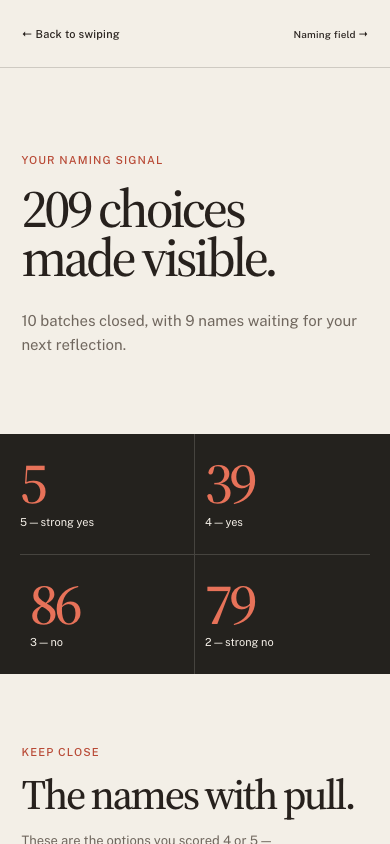
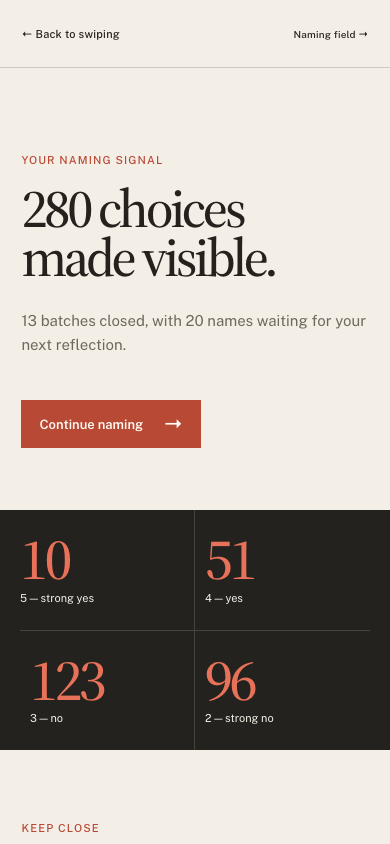
feat(naming): add clear continue action to results
Keep the decision-review flow moving by placing an explicit return-to-swiping action in the results hero.

diff --git a/naming/decide/results/results.css b/naming/decide/results/results.css
@@ -1,1 +1,1 @@
-.field-link{white-space:nowrap}.results-intro,.scoreboard,.shortlist,.territory-section,.rejected,.model-analysis,.empty{padding-inline:clamp(20px,5.5vw,80px)}.results-intro{padding-block:86px 62px}.results-intro h1,.empty h1{font-family:"Source Serif 4",serif;font-size:clamp(54px,7vw,104px);font-weight:500;letter-spacing:-.06em;line-height:.9;margin:18px 0 28px}.results-intro>p:last-child{color:var(--muted);font-size:15px;line-height:1.6;max-width:51ch}.scoreboard{background:var(--dark);display:grid;grid-template-columns:repeat(4,1fr);padding-block:0}.scoreboard article{border-right:1px solid rgba(245,240,232,.17);color:var(--light);display:grid;gap:9px;padding:36px 24px}.scoreboard article:first-child{padding-left:0}.scoreboard article:last-child{border:0}.scoreboard strong{color:#e77259;font-family:"Source Serif 4",serif;font-size:58px;font-weight:500;letter-spacing:-.06em;line-height:.8}.scoreboard span{font-size:11px}.shortlist,.territory-section,.rejected,.model-analysis{padding-block:108px}.shortlist{display:grid;gap:50px;grid-template-columns:minmax(250px,.58fr) 1fr}.shortlist h2,.territory-section h2,.rejected h2,.model-analysis h2{font-family:"Source Serif 4",serif;font-size:clamp(42px,5vw,72px);font-weight:500;letter-spacing:-.055em;line-height:.93;margin:17px 0}.shortlist>div>p:last-child{color:var(--muted);font-size:13px;line-height:1.6;max-width:32ch}.name-grid{display:grid;gap:1px;grid-template-columns:repeat(2,1fr)}.name-card{background:var(--panel);min-height:132px;padding:22px}.name-card strong{display:block;font-family:"Source Serif 4",serif;font-size:30px;font-weight:500;letter-spacing:-.035em;line-height:1;margin-top:19px}.name-card p{color:var(--muted);font-size:10px;line-height:1.45;margin:7px 0 0}.name-card span{color:var(--accent);font-size:10px;text-transform:uppercase}.territory-section{background:#e9e1d6}.territory-list{border-top:1px solid var(--line);max-width:1000px}.territory-row{align-items:center;border-bottom:1px solid var(--line);display:grid;gap:20px;grid-template-columns:minmax(160px,1fr) 80px 1.5fr;padding:20px 0}.territory-row strong{font-family:"Source Serif 4",serif;font-size:27px;font-weight:500}.territory-row span{color:var(--muted);font-size:11px}.territory-row i{background:rgba(39,33,29,.15);display:block;height:3px}.territory-row b{background:var(--accent);display:block;height:100%}.rejected{border-top:1px solid var(--line)}details{margin-top:40px}summary{cursor:pointer;font-size:12px;list-style:none}summary::-webkit-details-marker{display:none}summary::after{content:" +";color:var(--accent);font-size:20px}details[open] summary::after{content:" −"}.rejected .name-grid{margin-top:24px}.rejected .name-card{background:transparent;border:1px solid var(--line)}.model-analysis{background:var(--dark);color:var(--light)}.model-analysis h2{color:var(--light)}.model-analysis>p:not(.label){font-family:"Source Serif 4",serif;font-size:clamp(24px,3vw,40px);line-height:1.17;max-width:29ch}.model-analysis .tag{border-color:rgba(245,240,232,.35)}.empty{padding-block:120px}.empty>p:last-of-type{color:var(--muted);line-height:1.6;max-width:42ch}.empty a{color:var(--accent);display:inline-block;font-size:13px;margin-top:18px}@media(max-width:700px){.field-link{font-size:10px}.scoreboard{grid-template-columns:repeat(2,1fr);padding-inline:20px}.scoreboard article{padding:26px 10px}.scoreboard article:first-child{padding-left:0}.scoreboard article:nth-child(2){border-right:0}.scoreboard article:nth-child(-n+2){border-bottom:1px solid rgba(245,240,232,.17)}.shortlist{display:block}.shortlist .name-grid{margin-top:40px}.shortlist,.territory-section,.rejected,.model-analysis{padding-block:72px}.name-card{min-height:115px;padding:16px}.name-card strong{font-size:25px}.territory-row{grid-template-columns:1fr 45px;gap:12px}.territory-row i{display:none}}
+.field-link{white-space:nowrap}.results-intro,.scoreboard,.shortlist,.territory-section,.rejected,.model-analysis,.empty{padding-inline:clamp(20px,5.5vw,80px)}.results-intro{padding-block:86px 62px}.results-intro h1,.empty h1{font-family:"Source Serif 4",serif;font-size:clamp(54px,7vw,104px);font-weight:500;letter-spacing:-.06em;line-height:.9;margin:18px 0 28px}.results-intro>p:last-of-type{color:var(--muted);font-size:15px;line-height:1.6;max-width:51ch}.continue-lab{align-items:center;background:var(--accent);color:#fffaf3;display:inline-flex;font-size:13px;font-weight:600;gap:20px;margin-top:28px;min-height:48px;padding:0 18px;text-decoration:none;transition:background-color .18s ease-out,transform .18s ease-out}.continue-lab:hover{background:#8d2e20}.continue-lab:active{transform:scale(.96)}.continue-lab span{font-size:20px;line-height:1}.scoreboard{background:var(--dark);display:grid;grid-template-columns:repeat(4,1fr);padding-block:0}.scoreboard article{border-right:1px solid rgba(245,240,232,.17);color:var(--light);display:grid;gap:9px;padding:36px 24px}.scoreboard article:first-child{padding-left:0}.scoreboard article:last-child{border:0}.scoreboard strong{color:#e77259;font-family:"Source Serif 4",serif;font-size:58px;font-weight:500;letter-spacing:-.06em;line-height:.8}.scoreboard span{font-size:11px}.shortlist,.territory-section,.rejected,.model-analysis{padding-block:108px}.shortlist{display:grid;gap:50px;grid-template-columns:minmax(250px,.58fr) 1fr}.shortlist h2,.territory-section h2,.rejected h2,.model-analysis h2{font-family:"Source Serif 4",serif;font-size:clamp(42px,5vw,72px);font-weight:500;letter-spacing:-.055em;line-height:.93;margin:17px 0}.shortlist>div>p:last-child{color:var(--muted);font-size:13px;line-height:1.6;max-width:32ch}.name-grid{display:grid;gap:1px;grid-template-columns:repeat(2,1fr)}.name-card{background:var(--panel);min-height:132px;padding:22px}.name-card strong{display:block;font-family:"Source Serif 4",serif;font-size:30px;font-weight:500;letter-spacing:-.035em;line-height:1;margin-top:19px}.name-card p{color:var(--muted);font-size:10px;line-height:1.45;margin:7px 0 0}.name-card span{color:var(--accent);font-size:10px;text-transform:uppercase}.territory-section{background:#e9e1d6}.territory-list{border-top:1px solid var(--line);max-width:1000px}.territory-row{align-items:center;border-bottom:1px solid var(--line);display:grid;gap:20px;grid-template-columns:minmax(160px,1fr) 80px 1.5fr;padding:20px 0}.territory-row strong{font-family:"Source Serif 4",serif;font-size:27px;font-weight:500}.territory-row span{color:var(--muted);font-size:11px}.territory-row i{background:rgba(39,33,29,.15);display:block;height:3px}.territory-row b{background:var(--accent);display:block;height:100%}.rejected{border-top:1px solid var(--line)}details{margin-top:40px}summary{cursor:pointer;font-size:12px;list-style:none}summary::-webkit-details-marker{display:none}summary::after{content:" +";color:var(--accent);font-size:20px}details[open] summary::after{content:" −"}.rejected .name-grid{margin-top:24px}.rejected .name-card{background:transparent;border:1px solid var(--line)}.model-analysis{background:var(--dark);color:var(--light)}.model-analysis h2{color:var(--light)}.model-analysis>p:not(.label){font-family:"Source Serif 4",serif;font-size:clamp(24px,3vw,40px);line-height:1.17;max-width:29ch}.model-analysis .tag{border-color:rgba(245,240,232,.35)}.empty{padding-block:120px}.empty>p:last-of-type{color:var(--muted);line-height:1.6;max-width:42ch}.empty a{color:var(--accent);display:inline-block;font-size:13px;margin-top:18px}@media(max-width:700px){.field-link{font-size:10px}.scoreboard{grid-template-columns:repeat(2,1fr);padding-inline:20px}.scoreboard article{padding:26px 10px}.scoreboard article:first-child{padding-left:0}.scoreboard article:nth-child(2){border-right:0}.scoreboard article:nth-child(-n+2){border-bottom:1px solid rgba(245,240,232,.17)}.shortlist{display:block}.shortlist .name-grid{margin-top:40px}.shortlist,.territory-section,.rejected,.model-analysis{padding-block:72px}.name-card{min-height:115px;padding:16px}.name-card strong{font-size:25px}.territory-row{grid-template-columns:1fr 45px;gap:12px}.territory-row i{display:none}}

diff --git a/naming/decide/results/index.html b/naming/decide/results/index.html
@@ -14,7 +14,7 @@
   <body>
     <header><a href="/naming/decide/">← Back to swiping</a><p>Naming decision lab <span id="bridge-status">Checking saved decisions…</span></p><a class="field-link" href="/naming/">Naming field →</a></header>
     <main id="results" hidden>
-      <section class="results-intro"><p class="label">Your naming signal</p><h1><span id="rated-total">0</span> choices<br />made visible.</h1><p id="progress-copy"></p></section>
+      <section class="results-intro"><p class="label">Your naming signal</p><h1><span id="rated-total">0</span> choices<br />made visible.</h1><p id="progress-copy"></p><a class="continue-lab" href="/naming/decide/">Continue naming <span>→</span></a></section>
       <section class="scoreboard" aria-label="Scores by rating"><article><strong id="score-5">0</strong><span>5 — strong yes</span></article><article><strong id="score-4">0</strong><span>4 — yes</span></article><article><strong id="score-3">0</strong><span>3 — no</span></article><article><strong id="score-2">0</strong><span>2 — strong no</span></article></section>
       <section class="shortlist"><div><p class="label">Keep close</p><h2>The names with pull.</h2><p>These are the options you scored 4 or 5 — not a recommendation yet, just the honest record.</p></div><div id="shortlist" class="name-grid"></div></section>
       <section class="territory-section"><div><p class="label">Pattern by territory</p><h2>Where your instinct is strongest.</h2></div><div id="territories" class="territory-list"></div></section>
